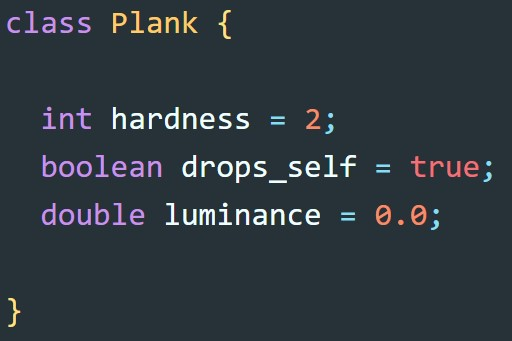
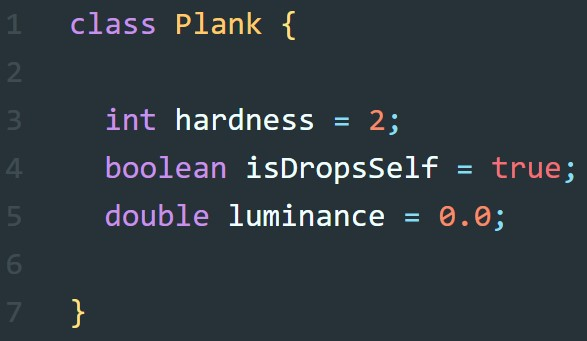
Updated Java style, adding to OOP Basics

diff --git a/src/components/tutorial components/javaBasics02.jsx b/src/components/tutorial components/javaBasics02.jsx
@@ -5,13 +5,17 @@ import Q2 from './question2';
 import BlockComparison from './../../assets/block_comparison.jpg';
 import PlankJava from './../../assets/plankjava.jpg';
 import CreativeInventory from './../../assets/creative_inv.png';
+import CreativeGraphic from './../../assets/inventory_instance.jpg';
+import PlankInstance from './../../assets/plankInstanceJava.jpg';
 
 function JavaBasics02(props) {
     const classPlankAlt = {
-        altText : "class Plank { / int hardness = 2; / boolean drops_self = true; / double luminanc = 0.0 / ?"
+        plankAltText : "class Plank { / int hardness = 2; / boolean isDropsSelf = true; / double luminanc = 0.0 / ?",
+        instanceAltText : `public class Main { / public static void main(String[] args) { / Plank myFirstPlank = new Plank();/
+        //myFirstPlank.hardness >>> 2 / }} / class Plank { / int hardness = 2; / boolean isDropsSelf = true; / double luminance = 0.0;/}`,
     };
 
-    return <div className="text-content-base">
+    return (<div className="text-content-base">
                 <h1><em>OOP BASICS</em></h1>
                 <div className="text-content">
                     <h3 className="section-title">Intro</h3>
@@ -44,11 +48,12 @@ function JavaBasics02(props) {
                         <span className="vocab-attr">Attributes </span> are a vocab word for this section; they are variables
                         that describe properties that are shared across similar ideas.
                         <br /> <br />
-                        The <span className="vocab-attr"> hardness, drops_self?, </span> and <span className="vocab-attr"> luminance </span> attribute
+                        The <span className="vocab-attr"> hardness, drops self?, </span> and <span className="vocab-attr"> luminance </span> attribute
                         names are all the same per each block, but <em> values </em> differ between them. Because of this, if I were to describe to
-                        you a Plank all I have to say is that the hardness is 2, the drops_self? is true, and the luminance is 0.0. But we can also 
+                        you a Plank all I have to say is that the hardness is 2, the drops self is true, and the luminance is 0.0. But we can also 
                         take these ideas and make them more abstract!
                     </p>
+                    <p><b> Note: </b> In code we right boolean variables with the word "is" in front, and use the lowerCamelCase style</p>
                     <Q2 />
                     <p>
                         Great work!! Lets transfer the ideas of Attributes to code and take a look at our first class in Java. <br /> <br />
@@ -56,12 +61,12 @@ function JavaBasics02(props) {
                         going to become more and more complex, if the images either don't load or you use a screen-reader there is alt-text included, 
                         or you can contact me for additional support.
                     </p>
-                    <img className="rounded" src={PlankJava} alt={classPlankAlt.altText}/>
+                    <img className="rounded" src={PlankJava} alt={classPlankAlt.plankAltText}/>
                     <div className="code-breakdown">
                         <p>
                             {'>'} <span className="inline-code"> Class Plank </span> tells Java everything between the curly braces {'{ }'} is
                             what is inside this class. <br /> <br />
-                            {'>'} <span className="inline-code" > int hardness / boolean drops_self / double luminance </span> These are 
+                            {'>'} <span className="inline-code" > int hardness / boolean isDropsSelf / double luminance </span> These are 
                             the <span className="vocab-attr"> attributes </span> from before - just defined <em> inside </em> the class so
                              they have their associated values.<br />
                         </p>
@@ -86,8 +91,8 @@ function JavaBasics02(props) {
                         <img src={CreativeInventory} />
                     </div>
                     <br />
-                    <div className="instances-box">
-                        <img src={CreativeInventory} />
+                    <div id="expanding" className="instances-box">
+                        <img id="instance-graphic" src={CreativeGraphic} />
                         <p>
                             When you grab a block from the inventory and drop it in your hotbar below, the <b> block in your hotbar becomes
                             an <span className="vocab-inst"> instance </span> of that block's class. </b>
@@ -101,10 +106,18 @@ function JavaBasics02(props) {
                         Sometimes it helps to think of classes as templates, and instances are when you actually make something with it. You can
                         also think of classes as a cookie-cutter, and instances as the actual cookie. I've tried this metaphor a bunch though and 
                         it can easily be lost so let's stick with Minecraft.
+                        <br /> <br />
+                        Below is some example code that <em> actually works </em> if you want to type it out and give it a try. There are some words
+                        in there we'll cover in the next section, but try and work through what you know and see what you can understand about
+                        what's going on. If you don't know how to run Java code (which is okay it can be confusing), I highly recommend using a 
+                        Java visualizer like <a href="https://cscircles.cemc.uwaterloo.ca/java_visualize/" target="_blank" rel="noopener noreferrer"> this </a> and 
+                        typing it out yourself.
                     </p>
+                    <img src={PlankInstance} className="rounded" id="instance" alt={classPlankAlt.instanceAltText}/>
                 </div>
                 <br /><br /><br /><br /><br />
             </div>
+    );
 }
 
 export default JavaBasics02;

diff --git a/src/components/tutorial components/question1a.js b/src/components/tutorial components/question1a.js
@@ -10,17 +10,17 @@ function Question1A() {
         <div className="question-block">
             <br />
             <p className="question-code">
-                double x_pos = 0.0; <br /> <br />
+                double xPos = 0.0; <br /> <br />
                 while (true) {'{'} <br />
-                &nbsp;&nbsp;if (x_pos {'>'} 300) {'{'} <br />
-                &nbsp;&nbsp;&nbsp;&nbsp;x_pos = 0; <br />
+                &nbsp;&nbsp;if (xPos {'>'} 300) {'{'} <br />
+                &nbsp;&nbsp;&nbsp;&nbsp;xPos = 0; <br />
                 &nbsp;&nbsp;{'}'} <br />
-                &nbsp;&nbsp;x_pos = x_pos + 1; <br />
+                &nbsp;&nbsp;xPos = xPos + 1; <br />
                 {'}'}
             </p>
             <p> Which of the following animations best displays the behavior described above? <br /> <br />
                 Anything inside the <span className="inline-code">while(true)</span> curly-braces will run in a loop forever, and anything in the
-                <span className="inline-code"> if (condition) </span> curly-braces will only happen if that condition is true. For the animation, the x_pos variable represents
+                <span className="inline-code"> if (condition) </span> curly-braces will only happen if that condition is true. For the animation, the xPos variable represents
                 the x position of the square along the container.
             </p>
             <div className="answers">
@@ -31,12 +31,12 @@ function Question1A() {
                     &nbsp;&nbsp;3. Change the x-position variable to whatever it was +1, thereby incrementing it every step of the loop
                 </AnswerItem>
                 <AnswerItem ans={<MoveAnimation version="example-block-2" />} value="incorrect">
-                    Take a look at how the x_pos variable is reset - it never moves <em> from </em> 300 back <em> to </em> 0, it
+                    Take a look at how the xPos variable is reset - it never moves <em> from </em> 300 back <em> to </em> 0, it
                     only goes one way.
                 </AnswerItem>
                 <AnswerItem ans={<MoveAnimation version="example-block-3"/>} value="incorrect">
-                    Because the line <span className="inline-code"> x_pos = x_pos + 1; </span> is inside the forever-loop the 
-                    x_pos variable <em> never stops changing.</em>
+                    Because the line <span className="inline-code"> xPos = xPos + 1; </span> is inside the forever-loop the 
+                    xPos variable <em> never stops changing.</em>
                 </AnswerItem>
             </div>
         </div>

diff --git a/src/components/tutorial components/javaBasics01.jsx b/src/components/tutorial components/javaBasics01.jsx
@@ -36,7 +36,7 @@ function JavaBasics01(props) {
                     An integer is one of the seven Primitive Types of variables in Java, and that's why we refer to it with
                     a lowercase 'L.' If we wanted to make a variable of a more complex type, like a <span className="inline-code">String</span>,
                     then we use capital first letters. Here let's make a String we can use to build our Hello World program:
-                        <br /><br /><span className="code-text"> String first_half = "Hello"; </span> <br /> <br />
+                        <br /><br /><span className="code-text"> String firstHalf = "Hello"; </span> <br /> <br />
                     Wonderful! Let's play with some variables and check comprehension. <br /> <br />
                     </p>
                     <Q1 />
@@ -59,7 +59,7 @@ function JavaBasics01(props) {
                         <br />
                     </p>
                     <div className="code-text">
-                        int add_numbers(int num1, int num2) {'{'} <br />
+                        int addNumbers(int num1, int num2) {'{'} <br />
                         &nbsp;&nbsp; int result = num1 + num2; <br />
                         &nbsp;&nbsp; return result; <br />
                         {'}'}
@@ -68,7 +68,7 @@ function JavaBasics01(props) {
                     <div className="code-breakdown">
                         {'>'} <span className="inline-code">int</span> here fills in the same variable formula as above, it tells
                         Java that this function is going to give us back an integer.<br /><br/>
-                        {'>'} <span className="inline-code">add_numbers</span> is the name of our function, similar to how 
+                        {'>'} <span className="inline-code">addNumbers</span> is the name of our function, similar to how 
                         variables have names. <br/><br/>
                         {'>'} <span className="inline-code">(int num1, int num2)</span> is where the function asks for the info it needs
                         in order to do it's thing. Inside these parantheses we declare we need two integers, and we put them in variables called

diff --git a/src/components/tutorial components/question1.jsx b/src/components/tutorial components/question1.jsx
@@ -9,9 +9,9 @@ function Question1() {
     <div className="question-block">
         <p> Read the following code, then explore the answers to the question below.</p>
         <p className="question-code">
-            String first_half = "Hello"; <br />
-            String second_half = "World!"; <br />
-            String total = first_half + second_half;
+            String firstHalf = "Hello"; <br />
+            String secondHalf = "World!"; <br />
+            String total = firstHalf + secondHalf;
         </p>
         <p>
             What is the resulting <span className="inline-code">value</span> of the 
@@ -20,8 +20,8 @@ function Question1() {
         <div className="answers">
             <AnswerItem value="incorrect" ans=">>> Hello World!">                    This actually isn't right! This is a 'gotcha' where it's correct
             in that the resulting value is both of the previous values added together,
-            but if you look carefully there's no space between the strings that are first_half and
-            second_half.
+            but if you look carefully there's no space between the strings that are firstHalf and
+            secondHalf.
                 </AnswerItem>
             <AnswerItem value="correct" ans=">>> HelloWorld!">
             Correct! It's a bit of a silly example but I can't

diff --git a/src/components/tutorial components/question2.jsx b/src/components/tutorial components/question2.jsx
@@ -16,7 +16,7 @@ function Question2() {
                 Yes... but it won't quite work in code! In Java we need to describe blocks by their attributes,
                     which are essentially just variables.
                 </AnswerItem>
-                <AnswerItem ans="hardness: 1 | drops_self?: false | luminance: 1.0" value="correct">
+                <AnswerItem ans="hardness: 1 | isDropsSelf: false | luminance: 1.0" value="correct">
                     Perfect! The attributes don't include information like "only spawns in nether" or "the texture could
                         be better but at least it's bright," because those aren't variables (at least that we're using).
                 </AnswerItem>
@@ -26,7 +26,7 @@ function Question2() {
         <div className="question-block">
             <p>Let's try working backwards: what block do you think these attributes might describe? This one is okay to guess!
                 <br /> <br />
-                &nbsp;&nbsp;hardness: 50 | drops_self?: true | luminance: 0
+                &nbsp;&nbsp;hardness: 50 | isDropsSelf: true | luminance: 0
             </p>
             <div className="answers">
                 <AnswerItem ans={<ExampleImages title="Diamond Ore" image={DiamondOre}/>} value="incorrect">

diff --git a/src/components/tutorial components/question1b.js b/src/components/tutorial components/question1b.js
@@ -7,7 +7,7 @@ function Question1B() {
         <div className="question-block" >
             <p>First we make our function:</p>
             <p className="question-code">
-                String say_hello(int n) {'{'} <br />
+                String sayHello(int n) {'{'} <br />
                 &nbsp;&nbsp;int i = 0; <br />
                 &nbsp;&nbsp;String result = ""; <br />
                 &nbsp;&nbsp;while (i {'<'} n) {'{'} <br />
@@ -22,7 +22,7 @@ function Question1B() {
                 the variable it asks for.
             </p>
             <p className="question-code">
-                String final_ans = say_hello(5);
+                String finalAnswer = sayHello(5);
             </p>
             <p>
                 What is the value of the variable final_ans?

diff --git a/src/components/tutorial components/javaBasics.css b/src/components/tutorial components/javaBasics.css
@@ -158,6 +158,24 @@ img {
     box-shadow: 20px -10px rgba(15, 177, 15, 0.397);
 }
 
+#instance-graphic {
+    width: 30rem;
+    height: auto;
+    transition: all 100ms ease;
+}
+
+#instance-graphic:hover{
+    width: 40rem;
+    height: auto;
+}
+
+#instance {
+    width: 100%;
+    height: auto;
+}
+
+/* IDK WHAT THIS IS */
+
 #blockcomp {
     position: relative;
     left: 5rem;
@@ -198,6 +216,10 @@ img {
     border: 5px solid var(--main-border-color);
     box-shadow: 10px -5px var(--main-bg-pre);
     transition: all 100ms ease;
+}
+
+#expanding {
+    margin-left: 1rem;
 }
 
 .instances-box:hover {

diff --git a/src/index.css b/src/index.css
@@ -7,6 +7,14 @@ body {
   -moz-osx-font-smoothing: grayscale;
 }
 
+a {
+  color: blue;
+}
+
+a:hover {
+  text-decoration: underline;
+}
+
 .p-background {
   position: absolute;
   left: 50%;
